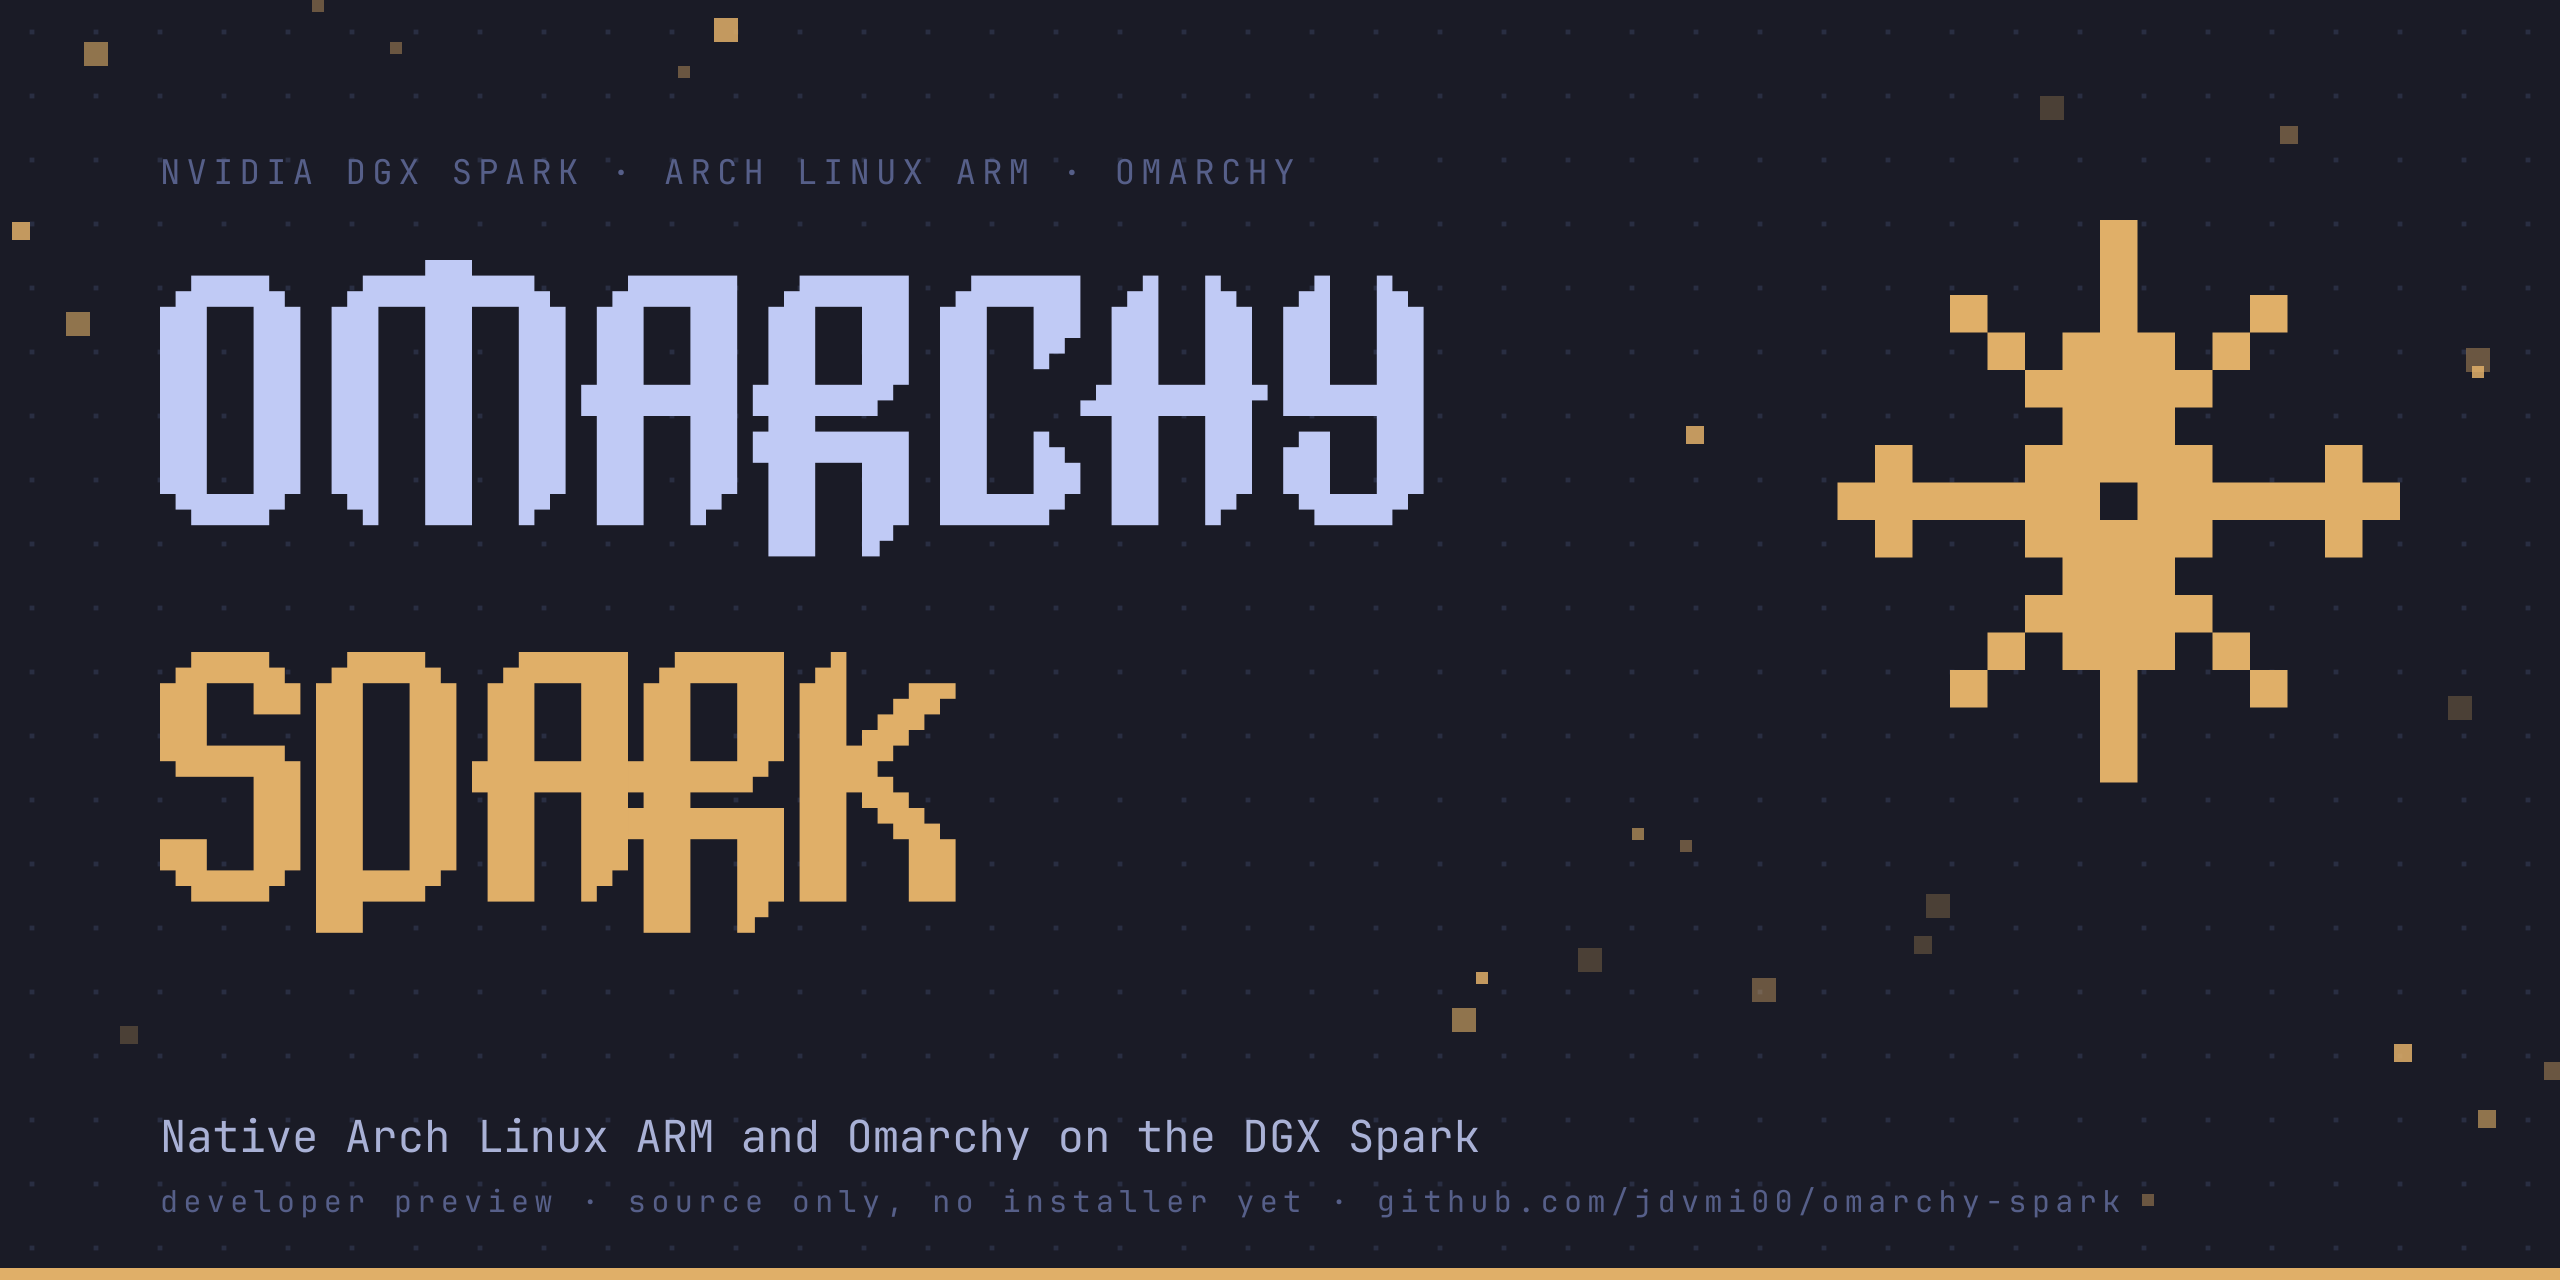
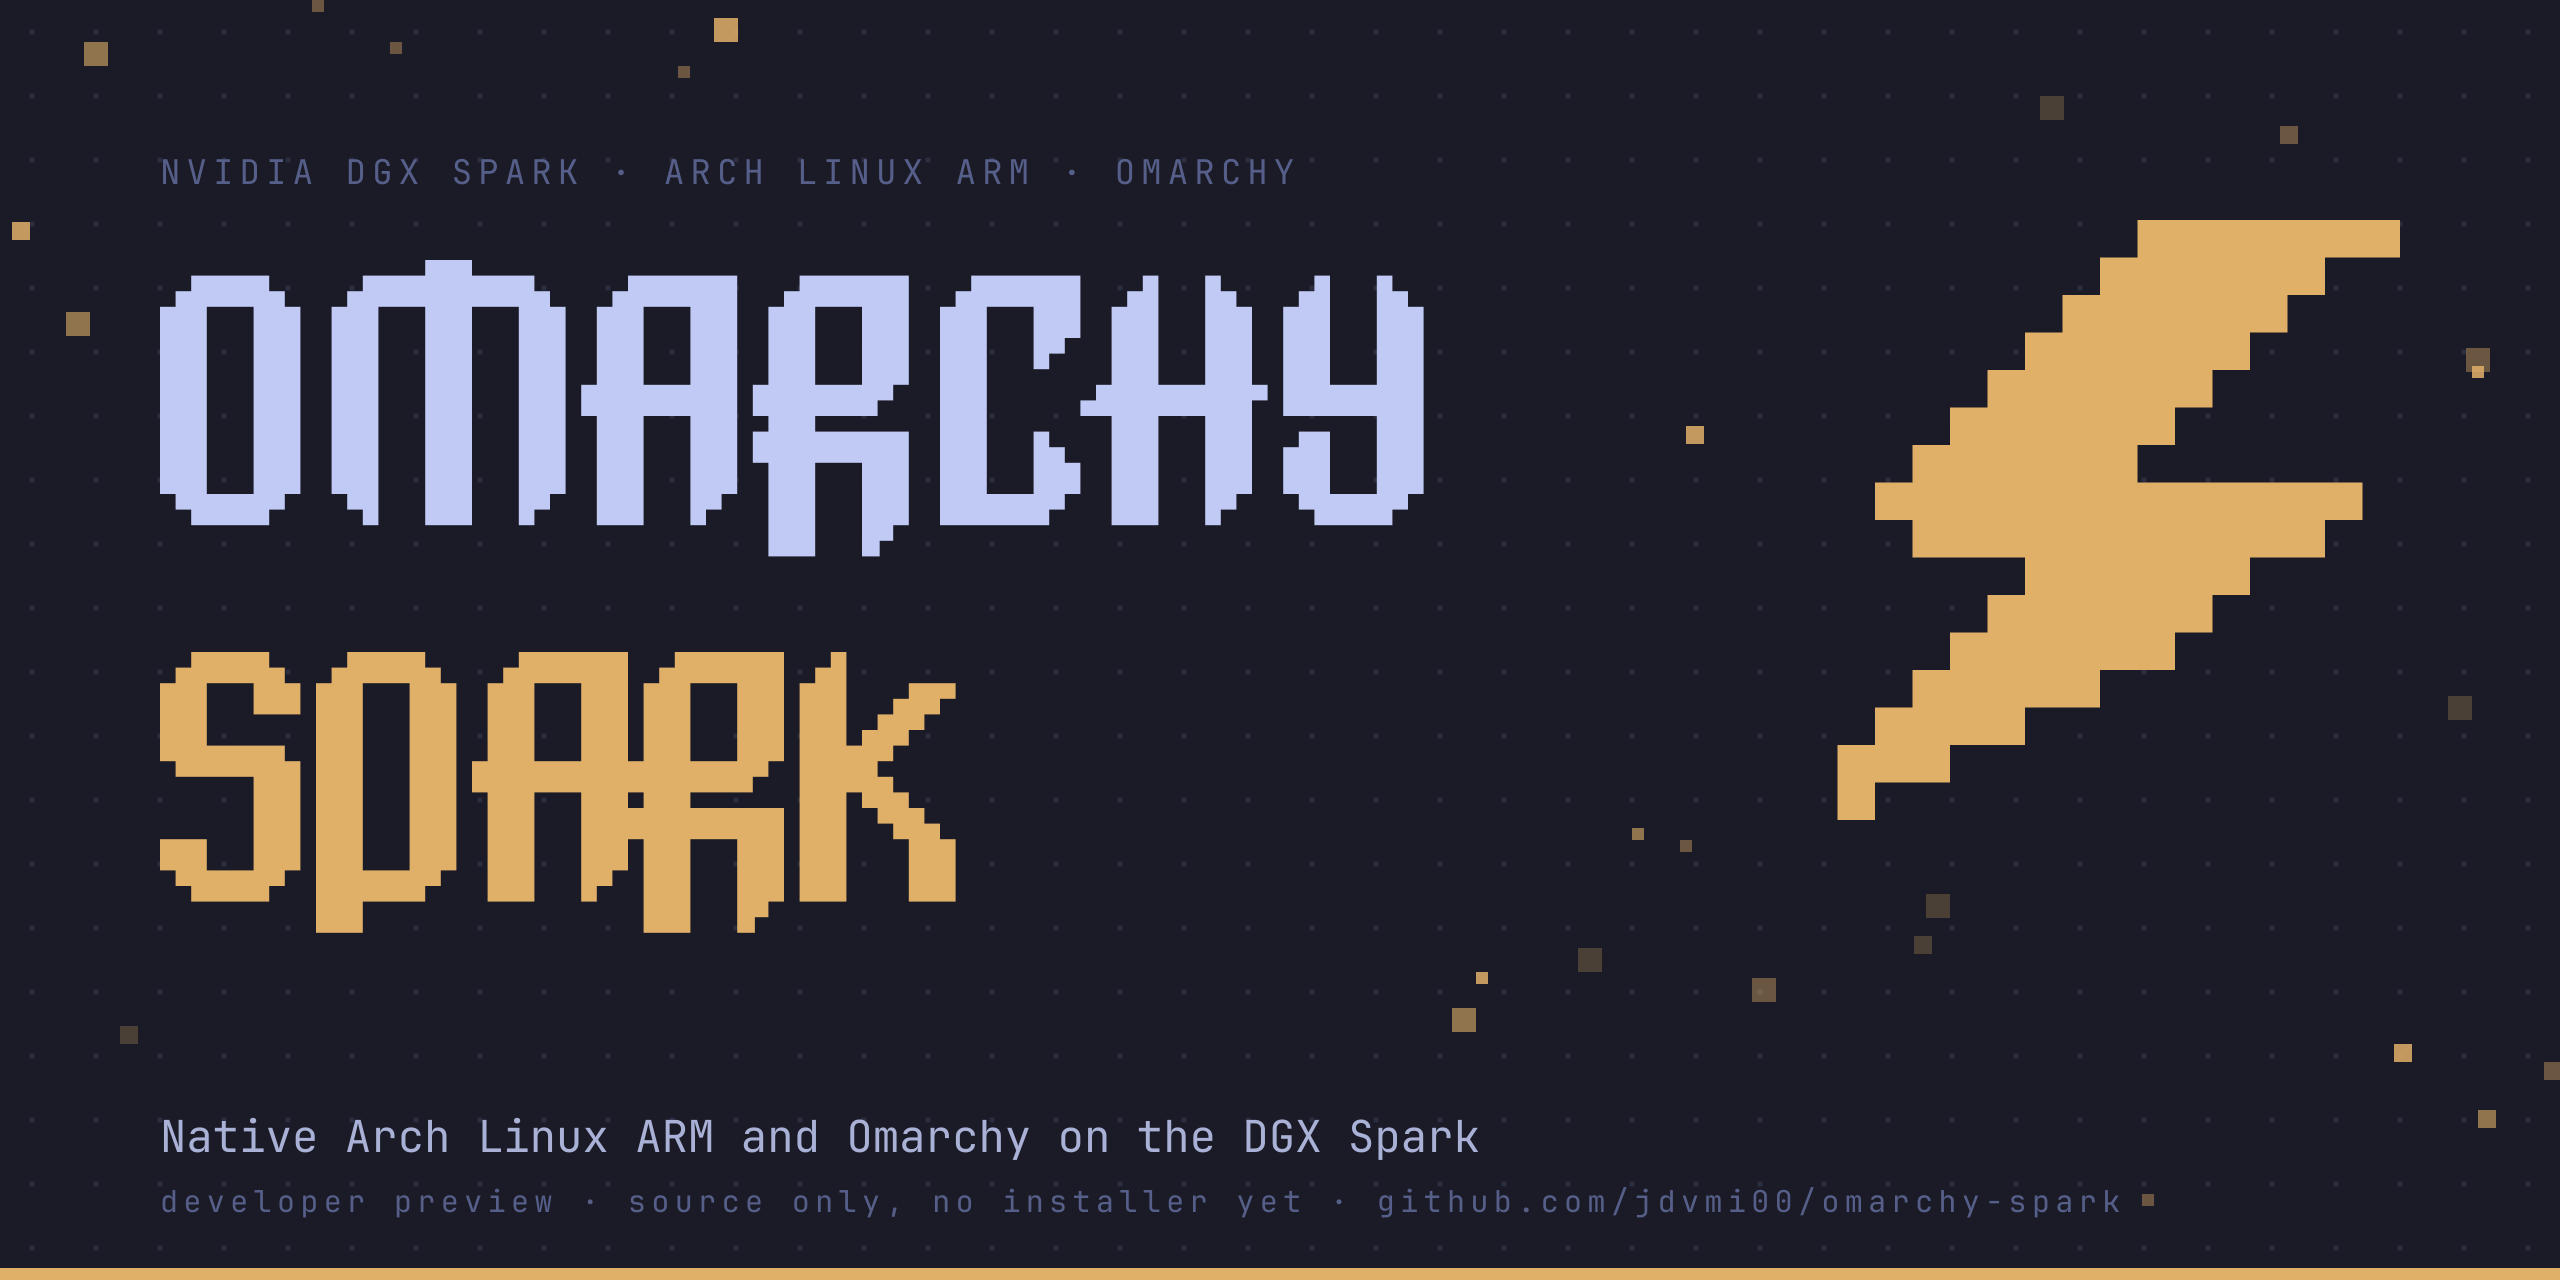
Replace the starburst mark with a stair-step lightning bolt

Changed region(s): [[0.7188, 0.1562, 0.9375, 0.6562], [0.8438, 0.3438, 0.9375, 0.4688]]

diff --git a/THIRD_PARTY.md b/THIRD_PARTY.md
@@ -12,7 +12,7 @@ describe the packaged software; they are not a grant to redistribute its binarie
 - The artwork under docs/media extends the Omarchy wordmark from basecamp/omarchy
   (MIT, notice retained): the letters s, p and k are new, drawn on the same
   15-pixel stair-step grid, and a and r reuse the original glyphs. Colors are the
-  Tokyo Night theme values shipped with Omarchy. The spark glyph and bracket icon
+  Tokyo Night theme values shipped with Omarchy. The lightning-bolt glyph and bracket icon
   are original. No NVIDIA logo or trademark artwork is used or imitated; the
   words NVIDIA and DGX Spark appear only as plain text naming the hardware.
 - Kernel packaging derives from RageLtd/linux-dgx-spark; its MIT license remains

diff --git a/docs/media/README.md b/docs/media/README.md
@@ -14,7 +14,7 @@ JetBrains Mono installed.
 
 The wordmark is Omarchy's MIT-licensed logo with new `s`, `p` and `k` letters
 drawn on its 15-pixel stair-step grid; `a` and `r` reuse the original glyphs.
-The spark glyph and the bracket icon are original. Colors come from Omarchy's
+The lightning-bolt glyph and the bracket icon are original. Colors come from Omarchy's
 `themes/tokyo-night/colors.toml`; the amber is that theme's yellow. See
 THIRD_PARTY.md for provenance. NVIDIA and DGX Spark are named in plain text
 only; no NVIDIA logo or trademark artwork is used.
